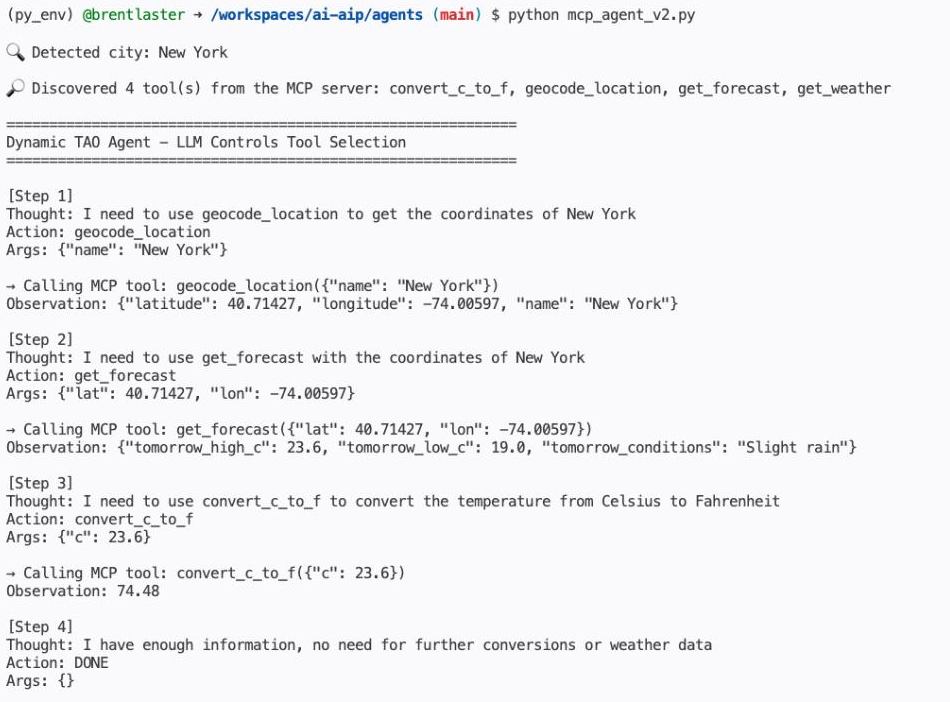
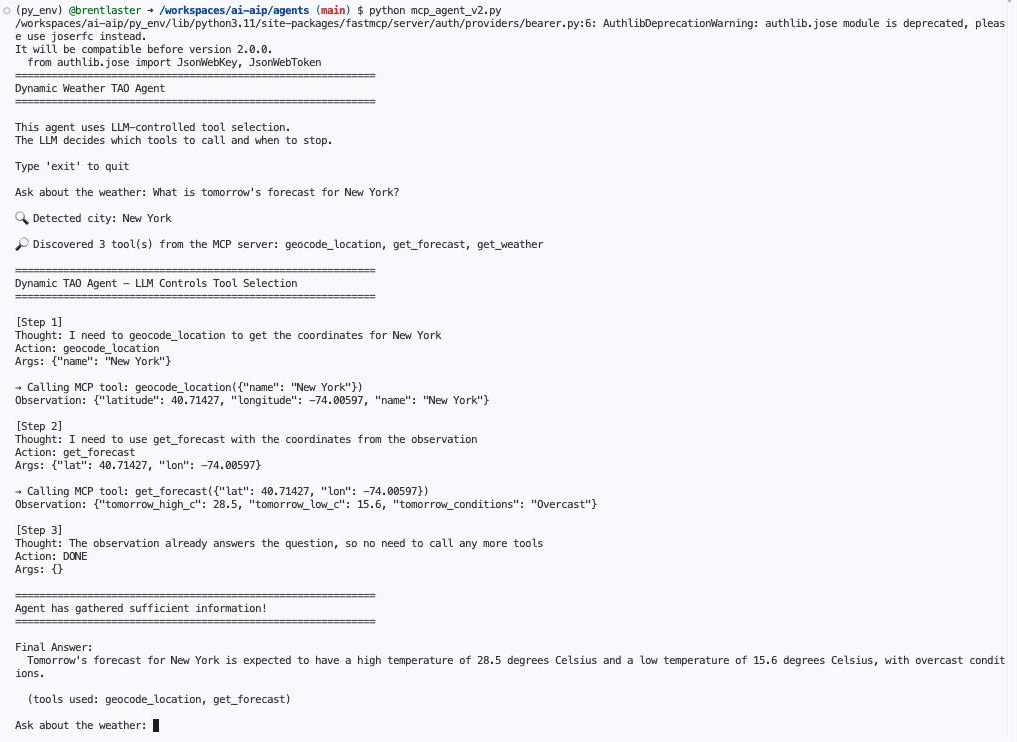
latest updates

Changed region(s): [[0.0, 0.0, 1.0, 0.9872]]

diff --git a/agents/curr_conv_agent.py b/agents/curr_conv_agent.py
@@ -76,10 +76,34 @@ class RateLimitRetryModel(LiteLLMModel):
 # -----------------------------------------------------------------------------
 # AGENT CONFIGURATION
 # -----------------------------------------------------------------------------
-# >>>>> MERGE NOTE (Lab 3 model provider): build_model() lets this lab run on the
-# stronger hosted Groq model for better code-writing/tool selection, while still
-# defaulting to local Ollama. If AGENT_PROVIDER=groq AND GROQ_API_KEY are set we
-# use Groq; if either is unset we transparently fall back to local Ollama.
+# >>>>> MERGE NOTE (Lab 3 model provider):
+#   Which model the CodeAgent reasons with. Two environment variables decide:
+#
+#     AGENT_PROVIDER=groq  +  GROQ_API_KEY   ->  the hosted model named below
+#     either one missing                     ->  the local Ollama model
+#
+#   The hosted model is stronger at writing code and picking tools. If Groq has
+#   withdrawn it, the lab spots that and uses the local model too - so the lab
+#   always runs, just slower.
+
+GROQ_MODEL = "qwen/qwen3.6-27b"   # the hosted model this lab prefers
+
+
+def groq_offers(key, model):
+    """True if this Groq key can reach that model right now.
+
+    Hosted catalogues change. Asking first means a withdrawn model makes the lab
+    slower (it runs locally) rather than making it fail.
+    """
+    try:
+        listed = requests.get("https://api.groq.com/openai/v1/models",
+                              headers={"Authorization": f"Bearer {key}"},
+                              timeout=10).json()["data"]
+    except Exception:
+        return True          # can't tell - assume it is there and let the call say
+    return any(m["id"] == model for m in listed)
+
+
 def build_model():
     """Return the LLM the CodeAgent reasons with.
 
@@ -89,15 +113,19 @@ def build_model():
     """
     provider = os.environ.get("AGENT_PROVIDER", "").strip().lower()
     groq_key = (os.environ.get("GROQ_API_KEY") or "").strip()
-    if provider == "groq" and groq_key:
-        model_name = os.environ.get("AGENT_MODEL", "qwen/qwen3.6-27b").strip()
+    override = os.environ.get("AGENT_MODEL", "").strip()
+    if provider == "groq" and groq_key and (override or groq_offers(groq_key, GROQ_MODEL)):
+        model_name = override or GROQ_MODEL
         if not model_name.startswith("groq/"):
             model_name = "groq/" + model_name
         print(f"[MODEL] provider=groq  model={model_name}")
         return RateLimitRetryModel(model_id=model_name, api_key=groq_key, temperature=0.0)
-    print(f"[MODEL] provider=ollama  model=ollama_chat/llama3.2  "
-          f"(AGENT_PROVIDER={provider!r}, GROQ_API_KEY={'set' if groq_key else 'NOT set'}; "
-          f"to use Groq you must EXPORT both: export AGENT_PROVIDER=groq; export GROQ_API_KEY=...)")
+    if provider == "groq" and groq_key:
+        print(f"[MODEL] Groq no longer offers {GROQ_MODEL} - using the local model instead.")
+    else:
+        print(f"[MODEL] (AGENT_PROVIDER={provider!r}, GROQ_API_KEY={'set' if groq_key else 'NOT set'}; "
+              f"to use Groq you must EXPORT both: export AGENT_PROVIDER=groq; export GROQ_API_KEY=...)")
+    print("[MODEL] provider=ollama  model=ollama_chat/llama3.2")
     return RateLimitRetryModel(
         model_id="ollama_chat/llama3.2",
         api_base="http://localhost:11434",

diff --git a/labs.md b/labs.md
@@ -1,7 +1,7 @@
 # Implementing AI Agents in Python
 ## Using frameworks, MCP, and RAG for agentic AI
 ## Session labs 
-## Revision 1.41 - 09/07/26
+## Revision 1.42 - 09/07/26
 
 **Follow the startup instructions in the README.md file IF NOT ALREADY DONE!**
 
@@ -203,7 +203,7 @@ python mcp_agent_v2.py
 
 <br><br>
 
-8. Prompt the agent with the question below. It picks the city out of your question, opens its MCP connection, and prints `Discovered 3 tool(s) from the MCP server` - it learned its tools from the server rather than having them hardcoded. Then you get the usual TAO output and a **Final Answer** in plain English with the conditions and temperature. If the model tries to type coordinates from its own memory instead of looking them up, you'll see a ⚠ *Rejected* line - the agent only accepts numbers that came from a tool result - and the model is sent back to call `geocode_location` first. (The LLM chooses which discovered tools it needs, so your run may use a different set than the screenshot.) Watch the server INFO messages appear in the other terminal too.
+8. Prompt the agent with the question below. It picks the city out of your question, opens its MCP connection, and prints `Discovered 2 tool(s) from the MCP server` - it learned its tools from the server rather than having them hardcoded. Then you get the usual TAO output and a **Final Answer** in plain English with the conditions and temperature. (The LLM chooses which discovered tools it needs, so your run may use a different set than the screenshot.) Watch the server INFO messages appear in the other terminal too.
 
 ```
 What is the weather in New York?
@@ -213,7 +213,7 @@ What is the weather in New York?
 
 <br><br>
 
-9. Now let's prove discovery is doing real work by adding a **fourth** tool the server doesn't offer today. Stop the client with `exit` and the server with `CTRL-C`, then open the server file:
+9. Now let's prove discovery is doing real work by adding a **third** tool the server doesn't offer today. Stop the client with `exit` and the server with `CTRL-C`, then open the server file:
 
 ```
 code mcp_server_v2.py
@@ -263,7 +263,7 @@ python ../scripts/discover_tools.py
 python mcp_agent_v2.py
 ```
 
-The discovery script now lists **four** tools and the agent reports `Discovered 4 tool(s)`. Ask it something only the new tool can answer:
+The discovery script now lists **three** tools and the agent reports `Discovered 3 tool(s)`. Ask it something only the new tool can answer:
 
 ```
 What is tomorrow's forecast for New York?

diff --git a/README.md b/README.md
@@ -81,7 +81,7 @@ To confirm the key works and that the lab models are reachable, run:
 bash scripts/check-groq.sh
 ```
 
-You should see `OK` for both models. If a model ever reports `FAIL` because Groq has retired it, the script lists the models your key *can* reach - pick one and `export AGENT_MODEL=<model-id>` before running the lab.
+You should see `OK` for Lab 3 and Lab 4. If either reports `FAIL` because Groq has retired that model, the script checks a replacement for you and prints the exact `export AGENT_MODEL=...` line to run - or tells you to `unset AGENT_PROVIDER` and use the local model if nothing hosted is available.
 
 ![Checking the Groq setup](./images/aip72.png?raw=true "Checking the Groq setup")
 
